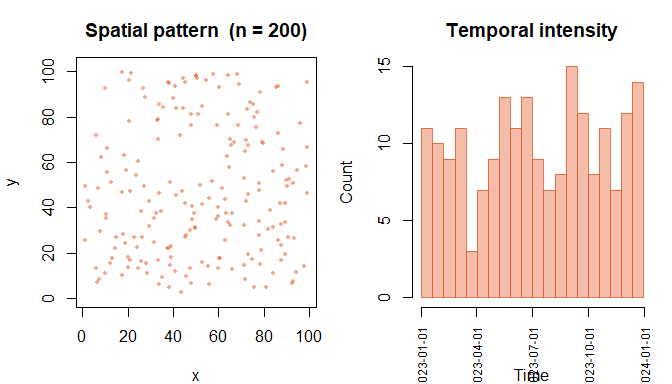
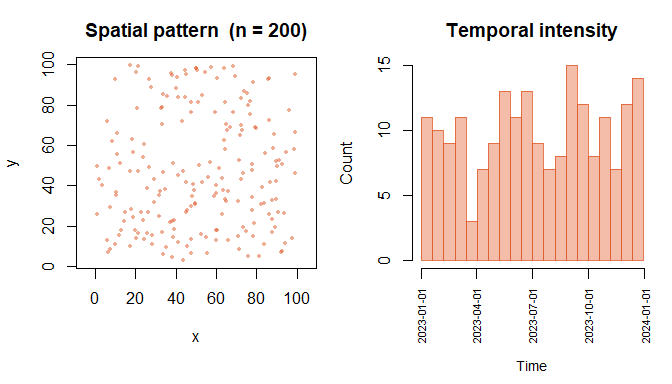
Updated README

diff --git a/README.md b/README.md
@@ -28,7 +28,10 @@ devtools::install_github("ricardosp4/stevents")
 | `stevents` | A set of events with coordinates and timestamps          |
 | `stgrid`   | A regular space-time tessellation for aggregating events |
 
-Each class has `print()`, `summary()`, and `plot()` methods.
+- `stevents`: in addition to `print()`, `summary()`, and `plot()`, it
+  has `subset()` (filter by time/space) and `as_sf()` (convert to `sf`).
+- `stgrid`: in addition to `print()`, `summary()`, and `plot()`, it has
+  `dim()` (data-cube size) and `as_sf()` (convert cells to `sf`).
 
 ## Functions
 
@@ -39,6 +42,7 @@ Each class has `print()`, `summary()`, and `plot()` methods.
 | `hawkes_intensity()` | Compute the Hawkes self-excitation kernel (continuous) |
 | `as_sf()` | Convert `stevents` to an `sf` point layer |
 | `subset()` | Filter events by time window and/or bounding box |
+| `dim()` | Get the size of an `stgrid` data cube (cells x time bins) |
 
 ## Quick start
 
@@ -147,4 +151,4 @@ event data and intensity model fitting via INLA.
 
 ## License
 
-MIT © Ricardo
+Copyright (c) 2026 Ricardo Sales Piquer
